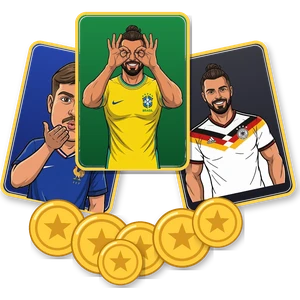
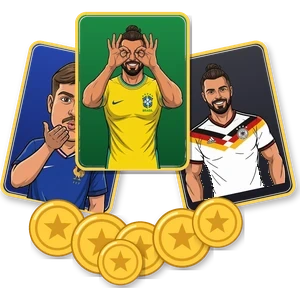
v460: Länderspiel - weiße Fläche zwischen Arm und Trikot (Deutschland-Karte, Kachel) entfernt
Claude-Session: https://claude.ai/code/session_01Bq3j1UmgmmQRjdUKFtX7an

diff --git a/sw.js b/sw.js
@@ -4,7 +4,7 @@
 // Nur dann wirft der Browser den alten Zwischenspeicher weg und alle Spieler
 // bekommen zuverlässig die neue Version. Das ist der einzige Handgriff, den man
 // nach dem Bearbeiten von Dateien nicht vergessen darf.
-const CACHE_NAME = "trollhouse-v459";
+const CACHE_NAME = "trollhouse-v460";
 
 const DATEIEN = [
   "./",
@@ -117,7 +117,7 @@ const DATEIEN = [
   "bilder/fussball-auktion/spieler-it-3.png?v=335",
   "bilder/fussball-auktion/spieler-it-4.png?v=335",
   "bilder/fussball-auktion/spieler-it-5.png?v=335",
-  "bilder/fussball-auktion/spieler-de-1.png?v=335",
+  "bilder/fussball-auktion/spieler-de-1.png?v=460",
   "bilder/doppelkopf-dame.webp",
   "bilder/doppelkopf/kreuz-9.webp?v=379",
   "bilder/doppelkopf/kreuz-10.webp?v=379",
@@ -164,7 +164,7 @@ const DATEIEN = [
   "bilder/stimmts-kachel.webp",
   "bilder/imposter-kachel.webp",
   "bilder/finto-kachel.webp",
-  "bilder/laenderspiel-kachel2.webp",
+  "bilder/laenderspiel-kachel2.webp?v=460",
   "bilder/memory/f01.webp?v=411",
   "bilder/memory/f02.webp?v=411",
   "bilder/memory/f03.webp?v=411",

diff --git a/spiele/register.js b/spiele/register.js
@@ -18,7 +18,7 @@
 // in der Olympiade trotz Fix in v201/v202 teils noch bestehen lassen.
 // WICHTIG: bei jedem Versionssprung hier UND in app.js (Import von
 // register.js) mit hochzaehlen.
-const SPIEL_VERSION = "459";
+const SPIEL_VERSION = "460";
 
 export const SPIELE = [
   {
@@ -176,7 +176,7 @@ export const SPIELE = [
     name: "Länderspiel",
     emoji: "⚽",
     farbe: "#22c55e",
-    bild: "bilder/laenderspiel-kachel2.webp",
+    bild: "bilder/laenderspiel-kachel2.webp?v=460",
     beschreibung: "Ersteigere Spielerkarten und gewinne mit der besten Kombination",
     minSpieler: 2,
     laden: () => import(`./fussball-auktion/spiel.js?v=${SPIEL_VERSION}`)

diff --git a/spiele/fussball-auktion/design.js b/spiele/fussball-auktion/design.js
@@ -142,7 +142,7 @@ export function nationDesign(nation) {
 // Alle Karten, die hier NICHT eingetragen sind, bekommen automatisch die
 // gezeichnete Platzhalter-Silhouette (siehe kartenPortraitHtml in spiel.js).
 export const PORTRAET_BILDER = {
-  "de-1": "bilder/fussball-auktion/spieler-de-1.png?v=278",
+  "de-1": "bilder/fussball-auktion/spieler-de-1.png?v=460",
   "de-2": "bilder/fussball-auktion/spieler-de-2.png?v=278",
   "de-3": "bilder/fussball-auktion/spieler-de-3.png?v=278",
   "de-4": "bilder/fussball-auktion/spieler-de-4.png?v=278",

diff --git a/app.js b/app.js
@@ -15,7 +15,7 @@ import {
 // Spiel-Fixes (spiele/<id>/spiel.js) verzoegert oder gar nicht mit.
 import { SPIELE, spielInfo } from "./spiele/register.js?v=335";
 
-export const APP_VERSION = "v459";
+export const APP_VERSION = "v460";
 const appVersion = document.getElementById("app-version");
 appVersion.textContent = "Version " + APP_VERSION;
 
